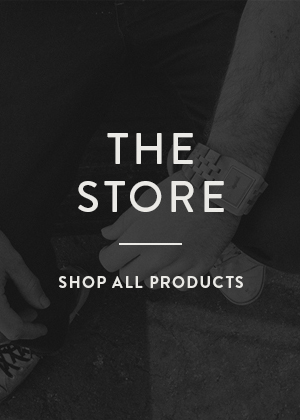
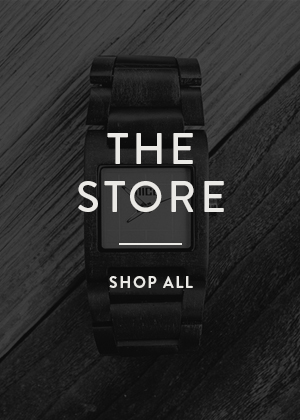
added new home page imagery and sable collection marketing

diff --git a/app/assets/stylesheets/product-list.css.sass b/app/assets/stylesheets/product-list.css.sass
@@ -15,28 +15,32 @@
 			margin-right: 20px
 			text-align: center
 			width: 220px
+			a
+				color: $darkGray
+				font-family: "brandonmed",sans-serif
+				font-style: normal
+				font-weight: 400
+				font-size: 13px
+				letter-spacing: 1px
+				margin-top: 12px
+				padding: 20px 0
+				text-transform: uppercase
+				&:hover
+					color: $darkGray
+					text-decoration: none
+			&:hover
+				opacity: 0.7
+			.listing-details
+				margin-top: 10px
 			.list-item-details
 				line-height: 18px
-				a
-					color: $darkGray
-					font-family: "brandonmed",sans-serif
-					font-style: normal
-					font-weight: 400
-					font-size: 13px
-					letter-spacing: 1px
-					margin-top: 12px
-					padding: 20px 0
-					text-transform: uppercase
-					&:hover
-						color: $darkGray
-						text-decoration: none
-				&:hover
-					opacity: 0.7
-				.listing-details
-					margin-top: 10px
 
 
 @media screen and (max-width: 767px)
+	.product-list
+		display: none
+		margin: 55px auto
+		max-width: 940px
 
 @media screen and (max-width: 940px) and (min-width: 702px)
 

diff --git a/app/assets/stylesheets/sub-nav.css.sass b/app/assets/stylesheets/sub-nav.css.sass
@@ -25,7 +25,7 @@
 			float: left
 			font-size: 11px
 			letter-spacing: 1px
-			margin-left: 20px
+			margin-left: 10px
 			padding: 3px 12px
 			text-transform: uppercase
 			text-align: center

diff --git a/db/seeds.rb b/db/seeds.rb
@@ -52,7 +52,7 @@ products = [
   },
 
   { :name => "The Plank", 
-    :collection => "Maple",
+    :collection => "Blonde",
   	:color => "White", 
   	:title => "The Plank Maple White SolidCore Wood Watch | Men's Watches",
     :description => "The Plank Wooden Watch, Blonde SolidCore Wood, White Carbon Mesh Dial, 3 Hand Japan Movement, Black Stainless Steel Clasp, 44mm, $185 USD Buy Now",  
@@ -60,7 +60,7 @@ products = [
   	:shoplink => "https://mica.infusionsoft.com/app/manageCart/addProduct?productId=117", 
   	:price => "185", 
   	:image1 => "/assets/products/watches/maple/plank-white/plank-maple-white-wooden-watch-crown.jpg", 
-  	:image2 => "/assets/products/watches/maple/plank-white/plank-maple-white-profile.jpg", 
+  	:image2 => "/assets/products/watches/maple/plank-white/plank-blonde-white-wooden-watch-crown-profile.jpg", 
   	:image3 => "/assets/products/watches/maple/plank-white/plank-maple-white-belly.jpg",
     :url => "the-plank-blonde-white-wood-watch-44mm",
     :sizing => "Large Size (44mm)"
@@ -110,34 +110,49 @@ products = [
   },
 
   { :name => "The Deck", 
-    :collection => "Maple",
+    :collection => "Blonde",
     :color => "Black", 
-    :title => "The Deck Maple Black SolidCore Wood Watch | Men's Watches",
+    :title => "The Deck Blonde Black SolidCore Wood Watch | Men's Watches",
     :description => "The Deck Wooden Watch, Blonde SolidCore Wood, Black Brushed Steel Dial, 3 Hand Japan Movement, Black Stainless Steel Clasp, 40.5mm, $165 USD Buy Now", 
     :category => "Watches", 
-    :shoplink => "https://mica.infusionsoft.com/app/manageCart/addProduct?productId=123", 
+    :shoplink => "https://mica.infusionsoft.com/app/manageCart/addProduct?productId=183", 
     :price => "165", 
     :image1 => "/assets/products/watches/maple/deck-black/deck-maple-black-wooden-watch-crown.jpg", 
     :image2 => "/assets/products/watches/maple/deck-black/deck-maple-black-profile.jpg", 
     :image3 => "/assets/products/watches/maple/deck-black/deck-maple-black-belly.jpg",
-    :url => "the-deck-maple-black-wood-watch-40mm",
+    :url => "the-deck-blonde-black-wood-watch-40mm",
     :sizing => "Large Size (40.5mm)" 
   },
 
   { :name => "The Deck", 
-    :collection => "Maple",
-    :color => "Bronze", 
-    :title => "The Deck Maple Bronze SolidCore Wood Watch | Men's Watches",
-    :description => "The Deck Wooden Watch, Maple SolidCore Wood, Bronze Brushed Steel Dial, 3 Hand Japan Movement, bronze Stainless Steel Clasp, 40.5mm, $175 USD Buy Now", 
+    :collection => "Blonde",
+    :color => "Silver", 
+    :title => "The Deck Blonde Silver SolidCore Wood Watch | Men's Watches",
+    :description => "The Deck Wooden Watch, Blonde SolidCore Wood, Silver Brushed Steel Dial, 3 Hand Japan Movement, Silver Stainless Steel Clasp, 40.5mm, $165 USD Buy Now", 
     :category => "Watches", 
-    :shoplink => "https://mica.infusionsoft.com/app/manageCart/addProduct?productId=125", 
+    :shoplink => "https://mica.infusionsoft.com/app/manageCart/addProduct?productId=185", 
     :price => "165", 
-    :image1 => "/assets/products/watches/maple/deck-bronze/deck-bronze-front.jpg", 
-    :image2 => "/assets/products/watches/maple/deck-bronze/deck-bronze-profile.jpg", 
-    :image3 => "/assets/products/watches/maple/deck-bronze/deck-bronze-belly.jpg",
-    :url => "the-deck-maple-bronze-wood-watch-40mm",
+    :image1 => "/assets/products/watches/maple/deck-silver/deck-blonde-silver-wooden-watch-crown.jpg", 
+    :image2 => "/assets/products/watches/maple/deck-silver/deck-blonde-silver-wooden-watch-crown-profile.jpg", 
+    :image3 => "/assets/products/watches/maple/deck-silver/deck-blonde-silver-wooden-watch-buckle-backplate.jpg",
+    :url => "the-deck-blonde-silver-wood-watch-40mm",
     :sizing => "Large Size (40.5mm)" 
   },
+
+  # { :name => "The Deck", 
+  #   :collection => "Blonde",
+  #   :color => "Bronze", 
+  #   :title => "The Deck Blonde Bronze SolidCore Wood Watch | Men's Watches",
+  #   :description => "The Deck Wooden Watch, Blonde SolidCore Wood, Bronze Brushed Steel Dial, 3 Hand Japan Movement, bronze Stainless Steel Clasp, 40.5mm, $175 USD Buy Now", 
+  #   :category => "Watches", 
+  #   :shoplink => "https://mica.infusionsoft.com/app/manageCart/addProduct?productId=185", 
+  #   :price => "165", 
+  #   :image1 => "/assets/products/watches/maple/deck-bronze/deck-bronze-front.jpg", 
+  #   :image2 => "/assets/products/watches/maple/deck-bronze/deck-bronze-profile.jpg", 
+  #   :image3 => "/assets/products/watches/maple/deck-bronze/deck-bronze-belly.jpg",
+  #   :url => "the-deck-blonde-bronze-wood-watch-40mm",
+  #   :sizing => "Large Size (40.5mm)" 
+  # },
 
   { :name => "The Drift", 
     :collection => "Sable",
@@ -171,9 +186,9 @@ products = [
 
 
   { :name => "The Drift", 
-    :collection => "Maple",
+    :collection => "Blonde",
     :color => "Black", 
-    :title => "The Drift Maple Black SolidCore Wood Watch | Men's Watches",
+    :title => "The Drift Blonde Black SolidCore Wood Watch | Men's Watches",
     :description => "The Drift Wooden Watch, Blonde SolidCore Wood, Black Steel Dial, 3 Hand Japan Movement, Black Stainless Steel Clasp, 37.5mm, $155 USD Buy Now", 
     :category => "Watches", 
     :shoplink => "https://mica.infusionsoft.com/app/manageCart/addProduct?productId=129", 
@@ -181,14 +196,14 @@ products = [
     :image1 => "/assets/products/watches/maple/drift-black/drift-maple-black-wooden-watch-crown.jpg", 
     :image2 => "/assets/products/watches/maple/drift-black/drift-maple-black-profile.jpg", 
     :image3 => "/assets/products/watches/maple/drift-black/drift-maple-black-belly.jpg",
-    :url => "the-drift-black-wood-watch",
+    :url => "the-drift-blonde-black-wood-watch",
     :sizing => "Standard Size (37.5mm)" 
   },
 
   { :name => "The Drift", 
-    :collection => "Maple",
+    :collection => "Blonde",
     :color => "Silver", 
-    :title => "The Drift Maple Silver SolidCore Wood Watch | Men's Watches",
+    :title => "The Drift blonde Silver SolidCore Wood Watch | Men's Watches",
     :description => "The Drift Wooden Watch, Blonde SolidCore Wood, Silver Steel Dial, 3 Hand Japan Movement, Stainless Steel Clasp, 37.5mm, $155 USD Buy Now",  
     :category => "Watches", 
     :shoplink => "https://mica.infusionsoft.com/app/manageCart/addProduct?productId=177", 
@@ -196,24 +211,24 @@ products = [
     :image1 => "/assets/products/watches/maple/drift-silver/drift-maple-silver-wooden-watch-crown.jpg", 
     :image2 => "/assets/products/watches/maple/drift-silver/drift-maple-silver-profile.jpg", 
     :image3 => "/assets/products/watches/maple/drift-silver/drift-maple-silver-belly.jpg",
-    :url => "the-drift-silver-wood-watch",
+    :url => "the-drift-blonde-silver-wood-watch",
     :sizing => "Standard Size (37.5mm)" 
   },
 
-  { :name => "The Drift", 
-    :collection => "Maple",
-    :color => "Brown", 
-    :title => "The Drift Maple Brown SolidCore Wood Watch | Men's Watches",
-    :description => "The Drift Wooden Watch, Sable SolidCore Wood, Gold Brushed Steel Dial, 3 Hand Japan Movement, bronze Stainless Steel Clasp, 40.5mm, $175 USD Buy Now", 
-    :category => "Watches", 
-    :shoplink => "https://mica.infusionsoft.com/app/manageCart/addProduct?productId=131", 
-    :price => "145", 
-    :image1 => "/assets/products/watches/maple/drift-brown/drift-brown-front.jpg", 
-    :image2 => "/assets/products/watches/maple/drift-silver/drift-silver-profile.jpg", 
-    :image3 => "/assets/products/watches/maple/drift-silver/drift-silver-belly.jpg",
-    :url => "the-drift-brown-wood-watch",
-    :sizing => "Standard Size (37.5mm)" 
-  },
+  # { :name => "The Drift", 
+  #   :collection => "Blonde",
+  #   :color => "Brown", 
+  #   :title => "The Drift Blonde Brown SolidCore Wood Watch | Men's Watches",
+  #   :description => "The Drift Wooden Watch, Blonde SolidCore Wood, Gold Brushed Steel Dial, 3 Hand Japan Movement, bronze Stainless Steel Clasp, 40.5mm, $175 USD Buy Now", 
+  #   :category => "Watches", 
+  #   :shoplink => "https://mica.infusionsoft.com/app/manageCart/addProduct?productId=131", 
+  #   :price => "145", 
+  #   :image1 => "/assets/products/watches/maple/drift-brown/drift-brown-front.jpg", 
+  #   :image2 => "/assets/products/watches/maple/drift-silver/drift-silver-profile.jpg", 
+  #   :image3 => "/assets/products/watches/maple/drift-silver/drift-silver-belly.jpg",
+  #   :url => "the-drift-blonde-brown-wood-watch",
+  #   :sizing => "Standard Size (37.5mm)" 
+  # },
 
   { :name => "The Baron", 
     :collection => "Sable",
@@ -245,60 +260,60 @@ products = [
     :sizing => "Standard Size (37.5mm)" 
   },
 
-  { :name => "The Baron", 
-    :collection => "Maple",
-    :color => "Black + Teal", 
-    :title => "The Baron Black SolidCore Wood Watch| Men's Watches",
-    :description => "The Baron Wooden Watch, SolidCore, Black and Teal Dial, 3 Hand Japan Movement,  Stainless Steel Clasp, 38mm, $125 USD Buy Now", 
-    :category => "Watches", 
-    :shoplink => "https://mica.infusionsoft.com/app/manageCart/addProduct?productId=135", 
-    :price => "125", 
-    :image1 => "/assets/products/watches/maple/baron-black-teal/baron-black-teal-front.jpg", 
-    :image2 => "/assets/products/watches/maple/baron-black-teal/baron-black-teal-profile.jpg", 
-    :image3 => "/assets/products/watches/maple/baron-black-teal/baron-black-teal-belly.jpg",
-    :url => "the-baron-black-wood-watch",
-    :sizing => "Standard Size (38mm)" 
-  },
+  # { :name => "The Baron", 
+  #   :collection => "Blonde",
+  #   :color => "Black + Teal", 
+  #   :title => "The Baron Blonde SolidCore Wood Watch| Men's Watches",
+  #   :description => "The Baron Blonde Wooden Watch, SolidCore, Black and Teal Dial, 3 Hand Japan Movement,  Stainless Steel Clasp, 38mm, $125 USD Buy Now", 
+  #   :category => "Watches", 
+  #   :shoplink => "https://mica.infusionsoft.com/app/manageCart/addProduct?productId=135", 
+  #   :price => "125", 
+  #   :image1 => "/assets/products/watches/maple/baron-black-teal/baron-black-teal-front.jpg", 
+  #   :image2 => "/assets/products/watches/maple/baron-black-teal/baron-black-teal-profile.jpg", 
+  #   :image3 => "/assets/products/watches/maple/baron-black-teal/baron-black-teal-belly.jpg",
+  #   :url => "the-baron-blonde-black-teal-wood-watch-38mm",
+  #   :sizing => "Standard Size (38mm)" 
+  # },
 
-  { :name => "The Baron",
-    :collection => "Maple",
-    :color => "Silver", 
-    :title => "The Baron Silver SolidCore Wood Watch| Men's Watches",
-    :description => "The Baron Wooden Watch, SolidCore, Silver Dial, 3 Hand Japan Movement,  Stainless Steel Clasp, 38mm, $125 USD Buy Now", 
-    :category => "Watches", 
-    :shoplink => "https://mica.infusionsoft.com/app/manageCart/addProduct?productId=133", 
-    :price => "125", 
-    :image1 => "/assets/products/watches/maple/baron-silver/baron-silver-front.jpg", 
-    :image2 => "/assets/products/watches/maple/baron-silver/baron-silver-profile.jpg", 
-    :image3 => "/assets/products/watches/maple/baron-silver/baron-silver-belly.jpg",
-    :url => "the-baron-silver-wood-watch",
-    :sizing => "Standard Size (38mm)" 
-  },
+  # { :name => "The Baron",
+  #   :collection => "Blonde",
+  #   :color => "Silver", 
+  #   :title => "The Baron Blonde Silver SolidCore Wood Watch| Men's Watches",
+  #   :description => "The Baron Wooden Watch, SolidCore, Silver Dial, 3 Hand Japan Movement,  Stainless Steel Clasp, 38mm, $125 USD Buy Now", 
+  #   :category => "Watches", 
+  #   :shoplink => "https://mica.infusionsoft.com/app/manageCart/addProduct?productId=133", 
+  #   :price => "125", 
+  #   :image1 => "/assets/products/watches/maple/baron-silver/baron-silver-front.jpg", 
+  #   :image2 => "/assets/products/watches/maple/baron-silver/baron-silver-profile.jpg", 
+  #   :image3 => "/assets/products/watches/maple/baron-silver/baron-silver-belly.jpg",
+  #   :url => "the-baron-blonde-silver-wood-watch-38mm",
+  #   :sizing => "Standard Size (38mm)" 
+  # },
 
   { :name => "The Baron", 
-    :collection => "Maple",
+    :collection => "Blonde",
     :color => "Rose + Gold", 
     :title => "The Baron Rose Gold SolidCore Wood Watch| Men's Watches",
     :description => "The Baron Wooden Watch, Blonde SolidCore Wood, Rose Gold Steel Dial, 3 Hand Japan Movement,  Rose Gold Stainless Steel Clasp, 38mm, $145 USD Buy Now", 
     :category => "Watches", 
     :shoplink => "https://mica.infusionsoft.com/app/manageCart/addProduct?productId=169", 
     :price => "145", 
-    :image1 => "/assets/products/watches/maple/baron-rosegold/baron-maple-rosegold-wooden-watch-crown.jpg", 
+    :image1 => "/assets/products/watches/maple/baron-rosegold/baron-blonde-rose-gold-mica-wood-watch.jpg", 
     :image2 => "/assets/products/watches/maple/baron-rosegold/baron-maple-rosegold-profile.jpg", 
     :image3 => "/assets/products/watches/maple/baron-rosegold/baron-maple-rosegold-belly.jpg",
-    :url => "the-baron-rosegold-wood-watch",
+    :url => "the-baron-blonde-rosegold-wood-watch-38mm",
     :sizing => "Standard Size (38mm)" 
   },
 
   { :name => "The Baron", 
-    :collection => "Maple",
+    :collection => "Blonde",
     :color => "Black", 
     :title => "The Baron Black SolidCore Wood Watch| Men's Watches",
     :description => "The Baron Wooden Watch, Blonde SolidCore Wood, Black Steel Dial, 3 Hand Japan Movement,  Rose Gold Stainless Steel Clasp, 38mm, $145 USD Buy Now", 
     :category => "Watches", 
     :shoplink => "https://mica.infusionsoft.com/app/manageCart/addProduct?productId=167", 
     :price => "145", 
-    :image1 => "/assets/products/watches/maple/baron-black/baron-maple-black-wooden-watch-crown.jpg", 
+    :image1 => "/assets/products/watches/maple/baron-black/baron-blonde-black-mica-wood-watch.jpg", 
     :image2 => "/assets/products/watches/maple/baron-black/baron-maple-black-profile.jpg", 
     :image3 => "/assets/products/watches/maple/baron-black/baron-maple-black-belly.jpg",
     :url => "the-baron-blonde-black-wood-watch-38mm",
@@ -308,6 +323,7 @@ products = [
   { :name => "The Tree", 
     :collection => "Tees",
     :color => "White", 
+    :title => "",
     :description => "", 
     :category => "Clothing", 
     :shoplink => "", 
@@ -321,6 +337,7 @@ products = [
   { :name => "The Official", 
     :collection => "Tees",
     :color => "Navy", 
+    :title => "",
     :description => "", 
     :category => "Clothing", 
     :shoplink => "", 
@@ -334,6 +351,7 @@ products = [
   { :name => "The Blitzen", 
     :collection => "Tees",
     :color => "Gray", 
+    :title => "",
     :description => "", 
     :category => "Clothing", 
     :shoplink => "", 
@@ -347,6 +365,7 @@ products = [
   { :name => "The Albuquerque", 
     :collection => "Tees",
     :color => "Black", 
+    :title => "",
     :description => "", 
     :category => "Clothing", 
     :shoplink => "", 

diff --git a/app/controllers/products_controller.rb b/app/controllers/products_controller.rb
@@ -115,6 +115,15 @@ class ProductsController < ApplicationController
     end
   end
 
+  def blonde
+    @watches = Product.where :collection => "Blonde"
+
+    respond_to do |format|
+      format.html # index.html.erb
+      format.json { render json: @products }
+    end
+  end
+
   def theTree
     redirect_to Product.where :name => 'The Tree', :status => 301
   end

diff --git a/config/routes.rb b/config/routes.rb
@@ -10,6 +10,7 @@ MicamoveRails::Application.routes.draw do
   get "/watches" => "products#watches" 
   get "/clothing" => "products#clothing"
   get "/sable-collection" => "products#sable"
+  get "/blonde-collection" => "products#blonde"
 
 
   get "/team" => "pages#team"
